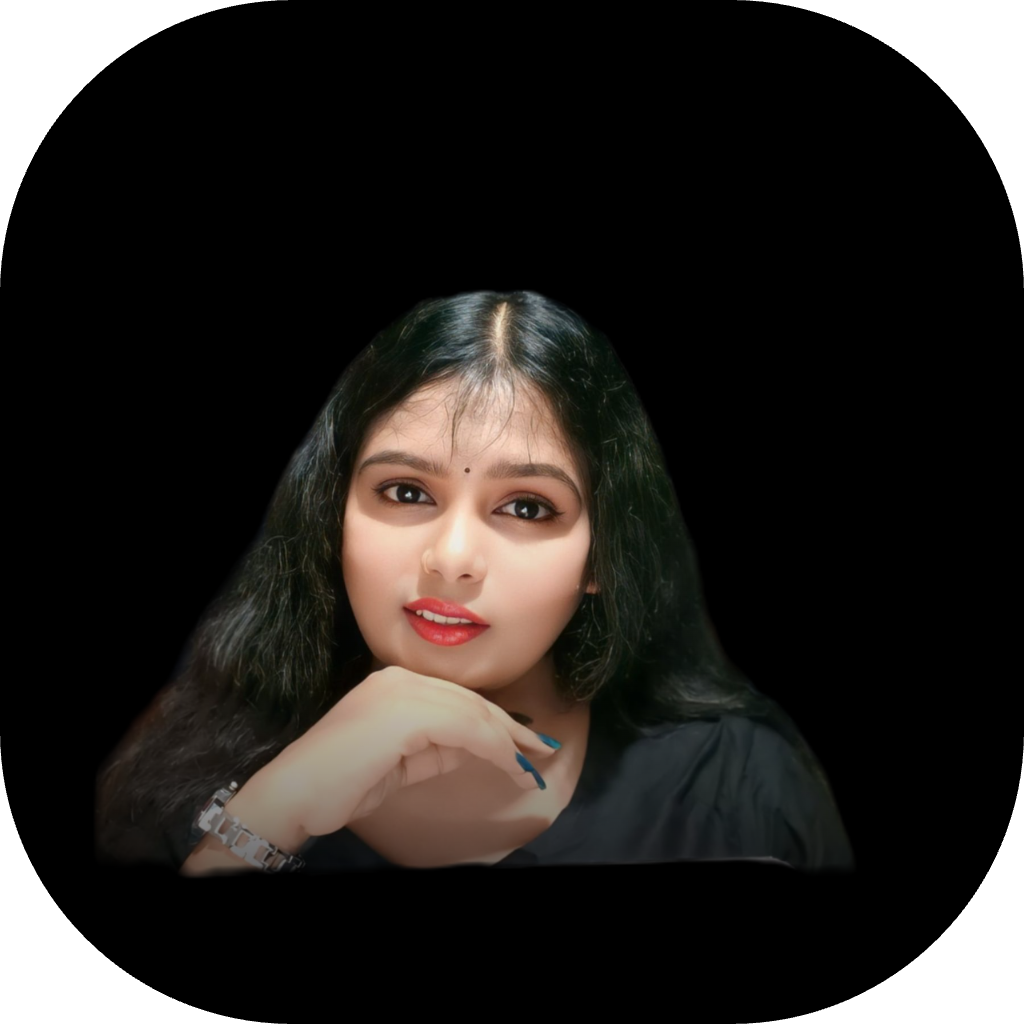
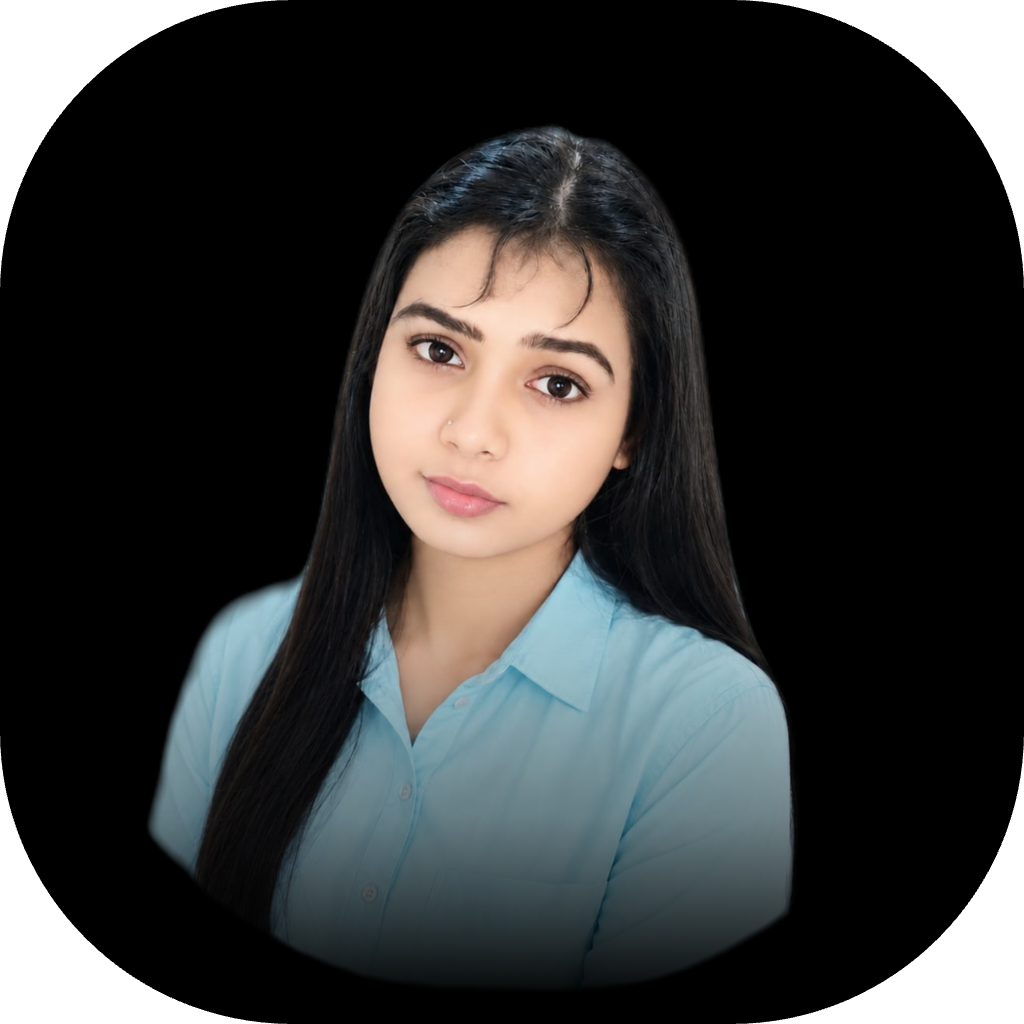
updated hero section

diff --git a/src/sections/Hero.jsx b/src/sections/Hero.jsx
@@ -2,7 +2,7 @@ import React, { useState, useEffect } from "react";
 import { FaGithub, FaLinkedin, FaInstagram, } from "react-icons/fa";
 import { motion } from "framer-motion";
 import ParticlesBackground from "../components/ParticlesBackground";
-import profileImage from "../assets/picofme (8).png";
+import profileImage from "../assets/picofme (12).png";
 import { FaXTwitter } from "react-icons/fa6";
 const roles = ["Frontend Developer", "React Developer", "Problem Solver"];
 
@@ -136,7 +136,7 @@ const Hero = () => {
                 <img
                   src={profileImage}
                   alt="profile"
-                  className="w-full h-full object-cover object-top"
+                  className="w-full h-full mt-[32px] md:mt-[36px] object-cover object-top"
                   style={{
                     transform: "scale(1.1) translateY(-10%)",
                     transformOrigin: "top center"
